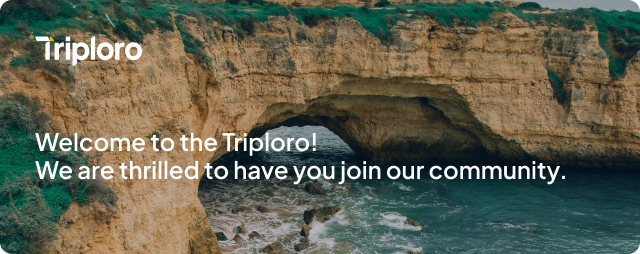
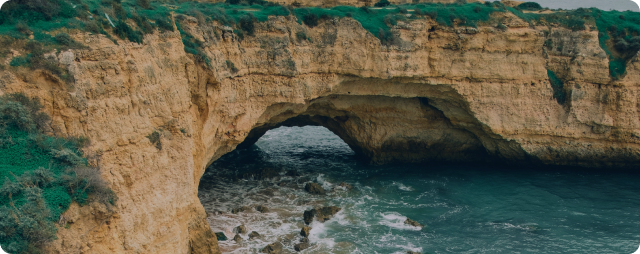
Refactor email template for password reset

Changed region(s): [[0.0312, 0.6339, 0.875, 0.7441], [0.0312, 0.5236, 0.5, 0.6063], [0.0312, 0.1378, 0.2188, 0.248]]

diff --git a/index.html b/index.html
@@ -1,0 +1,162 @@
+<!DOCTYPE html>
+<html lang="en">
+  <head>
+    <meta charset="UTF-8" />
+    <meta name="viewport" content="width=device-width, initial-scale=1.0" />
+    <link rel="preconnect" href="https://fonts.googleapis.com" />
+    <link rel="preconnect" href="https://fonts.gstatic.com" crossorigin />
+    <link
+      href="https://fonts.googleapis.com/css2?family=Plus+Jakarta+Sans:ital,wght@0,200..800;1,200..800&display=swap"
+      rel="stylesheet"
+    />
+    <title></title>
+  </head>
+  <body>
+    <div
+      style="
+        font-family: 'Plus Jakarta Sans', sans-serif;
+        background-color: #ffffff;
+        margin: 0 auto;
+        max-width: 698px;
+        padding: 20px;
+      "
+    >
+      <div style="text-align: left">
+        <img
+          src="https://triploro.es/img/logo.jpg"
+          alt="Logo"
+          style="height: auto; width: 100%; max-width: 115px; max-height: 30px"
+        />
+      </div>
+      <div style="padding: 20px">
+        <h2
+          style="
+            color: #033156;
+            text-align: center;
+            font-weight: 600;
+            font-size: 30px;
+            margin: 16px auto;
+          "
+        >
+          Hi ${username},
+        </h2>
+      </div>
+      <div style="text-align: center; position: relative">
+        <img src="./img/under_nav.png" alt="Welcome" style="margin: auto" />
+        <img
+          src="./img/logo_white.png"
+          alt="Logo white"
+          style="
+            margin: auto;
+            position: absolute;
+            top: 15%;
+            left: 10%;
+            width: 107px;
+          "
+        />
+        <p
+          style="
+            text-align: left;
+            position: absolute;
+            top: 45%;
+            left: 10%;
+            font-weight: 500;
+            font-size: 24px;
+            color: #ffffff;
+          "
+        >
+          Welcome to Triploro! <br />
+          We are thrilled to have you join our community.
+        </p>
+      </div>
+      <div style="padding: 32px; text-align: center">
+        <h1
+          style="
+            font-size: 30px;
+            color: #033156;
+            margin: 16px auto;
+            font-weight: 600;
+          "
+        >
+          Verify your email to get started
+        </h1>
+        <a
+          href="${verificationUrl}"
+          style="
+            display: inline-block;
+            background-color: #033156;
+            border-radius: 12px;
+            padding: 10px 40px;
+            color: #ffffff;
+            font-size: 16px;
+            font-weight: 600;
+            margin: 16px auto;
+            line-height: 24px;
+            cursor: pointer;
+            border: none;
+            text-decoration: none;
+          "
+        >
+          Get Started
+        </a>
+        <p style="margin: 16px auto; font-size: 14px">
+          If you're having trouble clicking the button, verify your email with
+          this link instead:
+          <span style="color: #333333; opacity: 50%">${verificationUrl}</span>
+        </p>
+        <hr
+          style="width: 420px; opacity: 20%; color: #033156; margin: 16px auto"
+        />
+        <h1
+          style="
+            font-size: 20px;
+            color: #000000;
+            opacity: 50%;
+            margin: 16px auto;
+          "
+        >
+          Plan your next travel and share with the world.
+        </h1>
+        <div
+          style="
+            max-width: 397px;
+            margin: 0 auto;
+            font-size: 14px;
+            opacity: 65%;
+            color: #333333;
+          "
+        >
+          <p style="margin: 16px auto">
+            Discover our curated selection of itineraries for your upcoming
+            travels, or create your own to share with the community.
+          </p>
+          <p style="margin: 16px auto">
+            Found an almost perfect itinerary that needs a personal touch? Adopt
+            community-shared itineraries through Triploro and customize them to
+            your preferences.
+          </p>
+          <p style="margin: 16px auto">
+            With Triploro, you can craft every trip to be uniquely yours, and
+            share it with the world.
+          </p>
+        </div>
+        <hr
+          style="width: 420px; opacity: 20%; color: #033156; margin: 16px auto"
+        />
+        <p
+          style="
+            color: #333333;
+            opacity: 50%;
+            margin: 16px auto;
+            font-size: 12px;
+          "
+        >
+          www.triploro.com
+        </p>
+        <p style="color: #999999; margin: 16px auto; font-size: 12px">
+          Copyright © 2024
+        </p>
+      </div>
+    </div>
+  </body>
+</html>

diff --git a/password.html b/password.html
@@ -1,0 +1,117 @@
+<!DOCTYPE html>
+<html lang="en">
+  <head>
+    <meta charset="UTF-8" />
+    <meta name="viewport" content="width=device-width, initial-scale=1.0" />
+    <link rel="preconnect" href="https://fonts.googleapis.com" />
+    <link rel="preconnect" href="https://fonts.gstatic.com" crossorigin />
+    <link
+      href="https://fonts.googleapis.com/css2?family=Plus+Jakarta+Sans:ital,wght@0,200..800;1,200..800&display=swap"
+      rel="stylesheet"
+    />
+    <title></title>
+  </head>
+  <body>
+    <div
+      style="
+        font-family: 'Plus Jakarta Sans', sans-serif;
+        background-color: #ffffff;
+        margin: 0 auto;
+        max-width: 698px;
+        padding: 20px;
+      "
+    >
+      <div style="text-align: left">
+        <img
+          src="https://triploro.es/img/logo.jpg"
+          alt="Logo"
+          style="height: auto; width: 100%; max-width: 115px; max-height: 30px"
+        />
+      </div>
+      <div>
+        <h2
+          style="
+            color: #033156;
+            text-align: center;
+            font-weight: 600;
+            font-size: 30px;
+            margin: 16px auto;
+          "
+        >
+          Password Reset
+        </h2>
+      </div>
+      <p
+        style="
+          color: #333333;
+          margin: 16px auto;
+          text-align: center;
+          font-size: 14px;
+        "
+      >
+        If you wish to reset your password, click the button below.
+      </p>
+      <div style="text-align: center">
+        <a
+          href="${verificationUrl}"
+          style="
+            display: inline-block;
+            background-color: #033156;
+            border-radius: 12px;
+            padding: 10px 40px;
+            color: #ffffff;
+            font-size: 16px;
+            font-weight: 600;
+            margin: 16px auto;
+            line-height: 24px;
+            cursor: pointer;
+            border: none;
+            text-decoration: none;
+          "
+        >
+          Reset my password
+        </a>
+        <p style="margin: 16px auto; font-size: 14px">
+          If you're having trouble clicking the button, you can reset your
+          password <br />
+          with this link instead:
+          <span style="color: #333333; opacity: 50%">${verificationUrl}</span>
+        </p>
+        <hr
+          style="width: 420px; opacity: 20%; color: #033156; margin: 16px auto"
+        />
+        <div
+          style="
+            max-width: 484px;
+            margin: 0 auto;
+            font-size: 14px;
+            opacity: 65%;
+            color: #333333;
+          "
+        >
+          <p style="margin: 16px auto">
+            If you did not request a password reset, you can safely ignore this
+            email. Only a person with access to your email can reset your
+            account password.
+          </p>
+        </div>
+        <hr
+          style="width: 420px; opacity: 20%; color: #033156; margin: 16px auto"
+        />
+        <p
+          style="
+            color: #333333;
+            opacity: 50%;
+            margin: 16px auto;
+            font-size: 12px;
+          "
+        >
+          www.triploro.com
+        </p>
+        <p style="color: #999999; margin: 16px auto; font-size: 12px">
+          Copyright © 2024
+        </p>
+      </div>
+    </div>
+  </body>
+</html>
